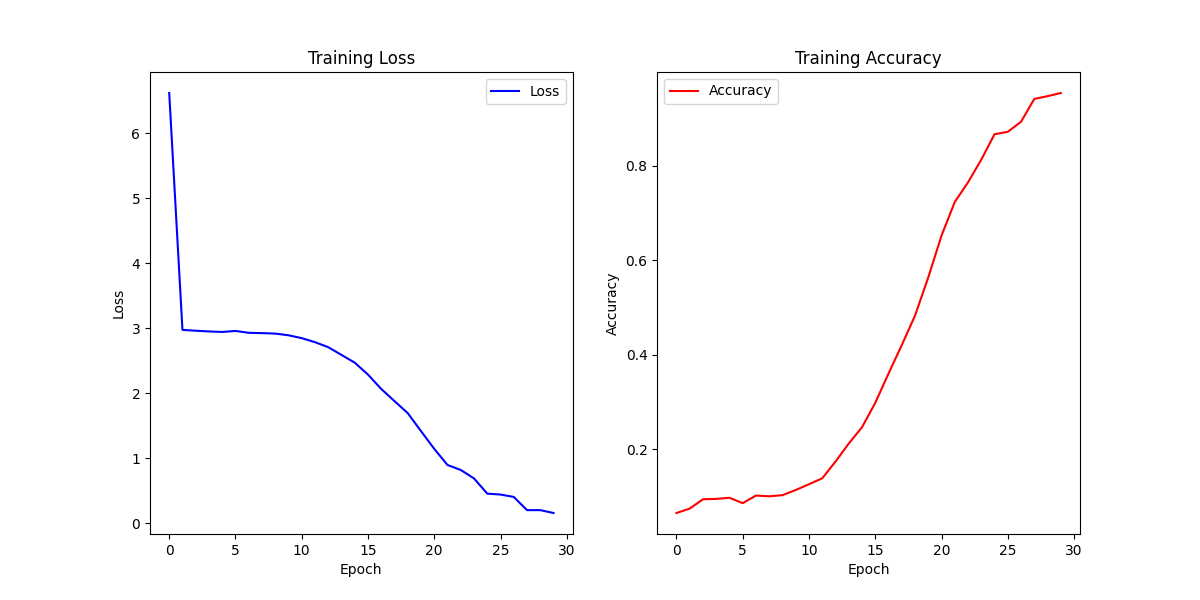
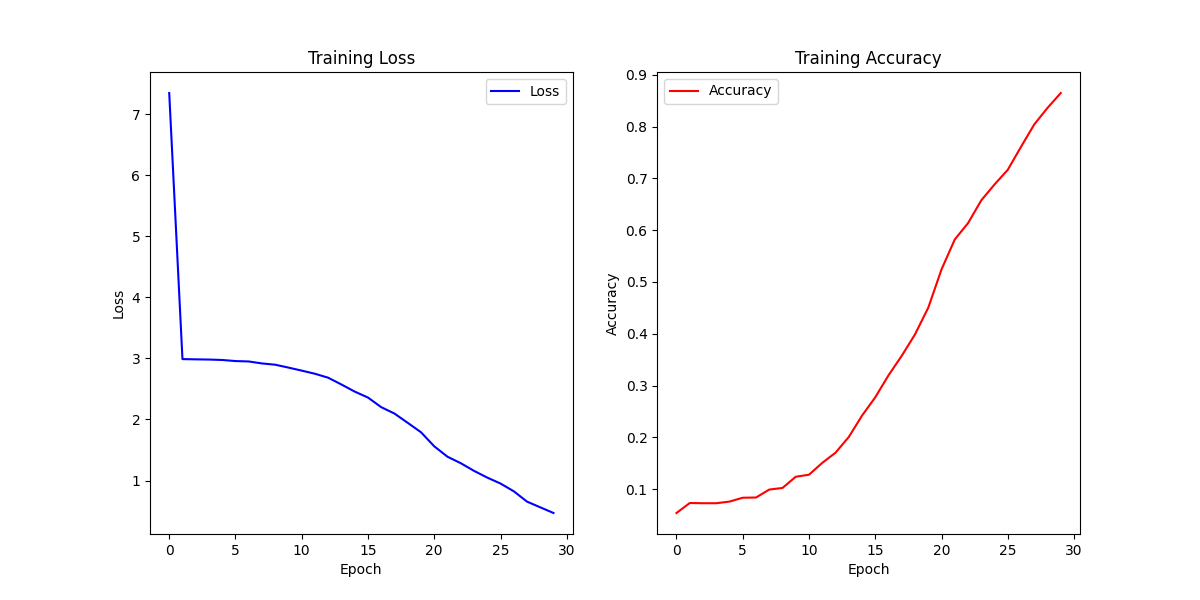
[UPDATE] Update Experiment with CNN

diff --git a/4_Stanford_dog/Compare_CNN/training_model.py b/4_Stanford_dog/Compare_CNN/training_model.py
@@ -45,58 +45,58 @@ def mix_data(folders, label):
 def build_vgg11_model(input_shape=(224, 224, 3), num_classes=2):
 
     #VGG8
-    model = Sequential()
-    model.add(Input(shape=(224, 224, 3)))
-    model.add(Conv2D(filters=16, kernel_size=(3, 3), activation="relu", padding="same"))
-    model.add(MaxPool2D(pool_size=(2, 2)))
-
-    model.add(Conv2D(filters=32, kernel_size=(3, 3), activation="relu", padding="same"))
-    model.add(MaxPool2D(pool_size=(2, 2)))
-
-    model.add(Conv2D(filters=64, kernel_size=(3, 3), activation="relu", padding="same"))
-    model.add(MaxPool2D(pool_size=(2, 2)))
-
-    model.add(Conv2D(filters=128, kernel_size=(3, 3), activation="relu", padding="same"))
-    model.add(MaxPool2D(pool_size=(2, 2)))
-
-    model.add(Conv2D(filters=128, kernel_size=(3, 3), activation="relu", padding="same"))
-    model.add(MaxPool2D(pool_size=(2, 2)))
-
-    model.add(Flatten())
-    model.add(Dense(units=4096, activation="relu"))
-    model.add(Dropout(0.2))
-    model.add(Dense(units=1024, activation="relu"))
-    model.add(Dropout(0.2))
-    model.add(Dense(units=num_classes, activation="softmax"))
-
-
-    #VGG11
     # model = Sequential()
     # model.add(Input(shape=(224, 224, 3)))
+    # model.add(Conv2D(filters=16, kernel_size=(3, 3), activation="relu", padding="same"))
+    # model.add(MaxPool2D(pool_size=(2, 2)))
+
+    # model.add(Conv2D(filters=32, kernel_size=(3, 3), activation="relu", padding="same"))
+    # model.add(MaxPool2D(pool_size=(2, 2)))
+
     # model.add(Conv2D(filters=64, kernel_size=(3, 3), activation="relu", padding="same"))
     # model.add(MaxPool2D(pool_size=(2, 2)))
 
     # model.add(Conv2D(filters=128, kernel_size=(3, 3), activation="relu", padding="same"))
     # model.add(MaxPool2D(pool_size=(2, 2)))
 
-    # model.add(Conv2D(filters=256, kernel_size=(3, 3), activation="relu", padding="same"))
-    # model.add(Conv2D(filters=256, kernel_size=(3, 3), activation="relu", padding="same"))
-    # model.add(MaxPool2D(pool_size=(2, 2)))
-
-    # model.add(Conv2D(filters=512, kernel_size=(3, 3), activation="relu", padding="same"))
-    # model.add(Conv2D(filters=512, kernel_size=(3, 3), activation="relu", padding="same"))
-    # model.add(MaxPool2D(pool_size=(2, 2)))
-
-    # model.add(Conv2D(filters=512, kernel_size=(3, 3), activation="relu", padding="same"))
-    # model.add(Conv2D(filters=512, kernel_size=(3, 3), activation="relu", padding="same"))
+    # model.add(Conv2D(filters=128, kernel_size=(3, 3), activation="relu", padding="same"))
     # model.add(MaxPool2D(pool_size=(2, 2)))
 
     # model.add(Flatten())
     # model.add(Dense(units=4096, activation="relu"))
     # model.add(Dropout(0.2))
-    # model.add(Dense(units=4096, activation="relu"))
+    # model.add(Dense(units=1024, activation="relu"))
     # model.add(Dropout(0.2))
-    # model.add(Dense(units=2, activation="softmax"))
+    # model.add(Dense(units=num_classes, activation="softmax"))
+
+
+    #VGG11
+    model = Sequential()
+    model.add(Input(shape=(224, 224, 3)))
+    model.add(Conv2D(filters=64, kernel_size=(3, 3), activation="relu", padding="same"))
+    model.add(MaxPool2D(pool_size=(2, 2)))
+
+    model.add(Conv2D(filters=128, kernel_size=(3, 3), activation="relu", padding="same"))
+    model.add(MaxPool2D(pool_size=(2, 2)))
+
+    model.add(Conv2D(filters=256, kernel_size=(3, 3), activation="relu", padding="same"))
+    model.add(Conv2D(filters=256, kernel_size=(3, 3), activation="relu", padding="same"))
+    model.add(MaxPool2D(pool_size=(2, 2)))
+
+    model.add(Conv2D(filters=512, kernel_size=(3, 3), activation="relu", padding="same"))
+    model.add(Conv2D(filters=512, kernel_size=(3, 3), activation="relu", padding="same"))
+    model.add(MaxPool2D(pool_size=(2, 2)))
+
+    model.add(Conv2D(filters=512, kernel_size=(3, 3), activation="relu", padding="same"))
+    model.add(Conv2D(filters=512, kernel_size=(3, 3), activation="relu", padding="same"))
+    model.add(MaxPool2D(pool_size=(2, 2)))
+
+    model.add(Flatten())
+    model.add(Dense(units=4096, activation="relu"))
+    model.add(Dropout(0.2))
+    model.add(Dense(units=4096, activation="relu"))
+    model.add(Dropout(0.2))
+    model.add(Dense(units=num_classes, activation="softmax"))
 
     model.summary()
     return model
@@ -163,10 +163,10 @@ folders = [
 
 # Lấy dữ liệu mong muốn
 # Hàm mix_data với hai tham số ([array of dataset], label)
-data = joblib.load(folders[0])
+data = joblib.load(folders[4])
 labels = joblib.load("../dataset/data/label.joblib")
 process_labels = labels * 5
-# labels = process_labels
+labels = process_labels
 labels = [x - 1 for x in labels]
 size = len(set(labels))
 
@@ -174,7 +174,7 @@ train_x, test_x, train_y, test_y = process_data([(data, labels)], size)
 print(len(train_x), len(test_x))
 print(type(train_x), type(test_x))
 
-model_name = "20240425_VGG8_raw_1"
+model_name = "20240515_VGG11_process_1"
 num_of_epoch = 30
 train_and_save_model(train_x, train_y, test_x, test_y, model_name, epochs=num_of_epoch, unit = size)
 model = load_model("./data/" + model_name + "_CNN_model.h5")
@@ -205,7 +205,7 @@ accuracy = accuracy_score(true_labels, predicted_labels)
 print("Model accuracy: ", accuracy)
 
 # Vẽ và hiển thị confusion matrix
-plt.figure(figsize=(8, 6))
+plt.figure(figsize=(15, 12))
 sns.heatmap(conf_matrix, annot=True, fmt="d", cmap="Blues", annot_kws={"size": 14})
 plt.xlabel('Predicted labels', fontsize="14")
 plt.ylabel('True labels', fontsize="14")
